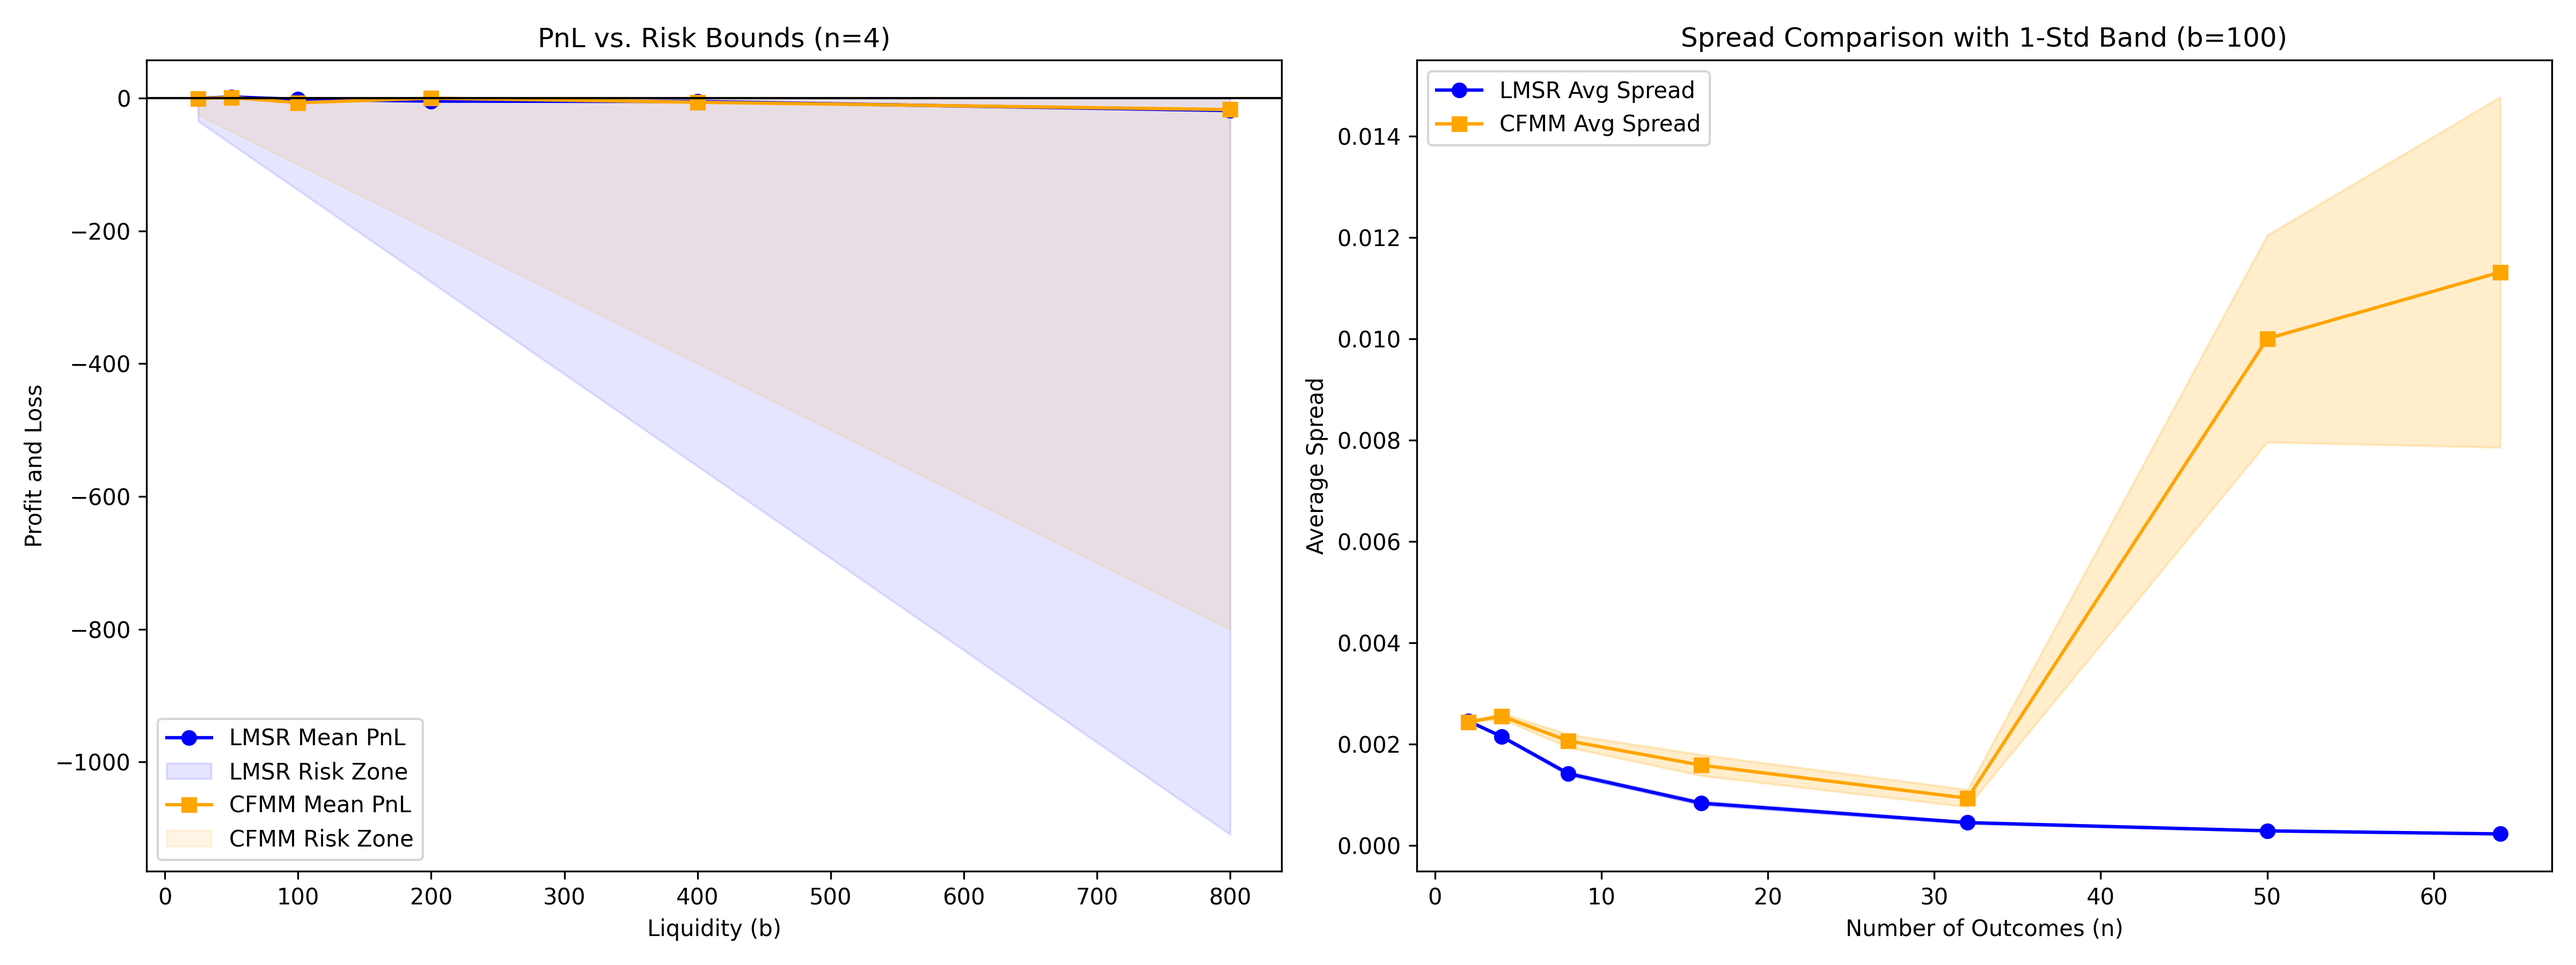
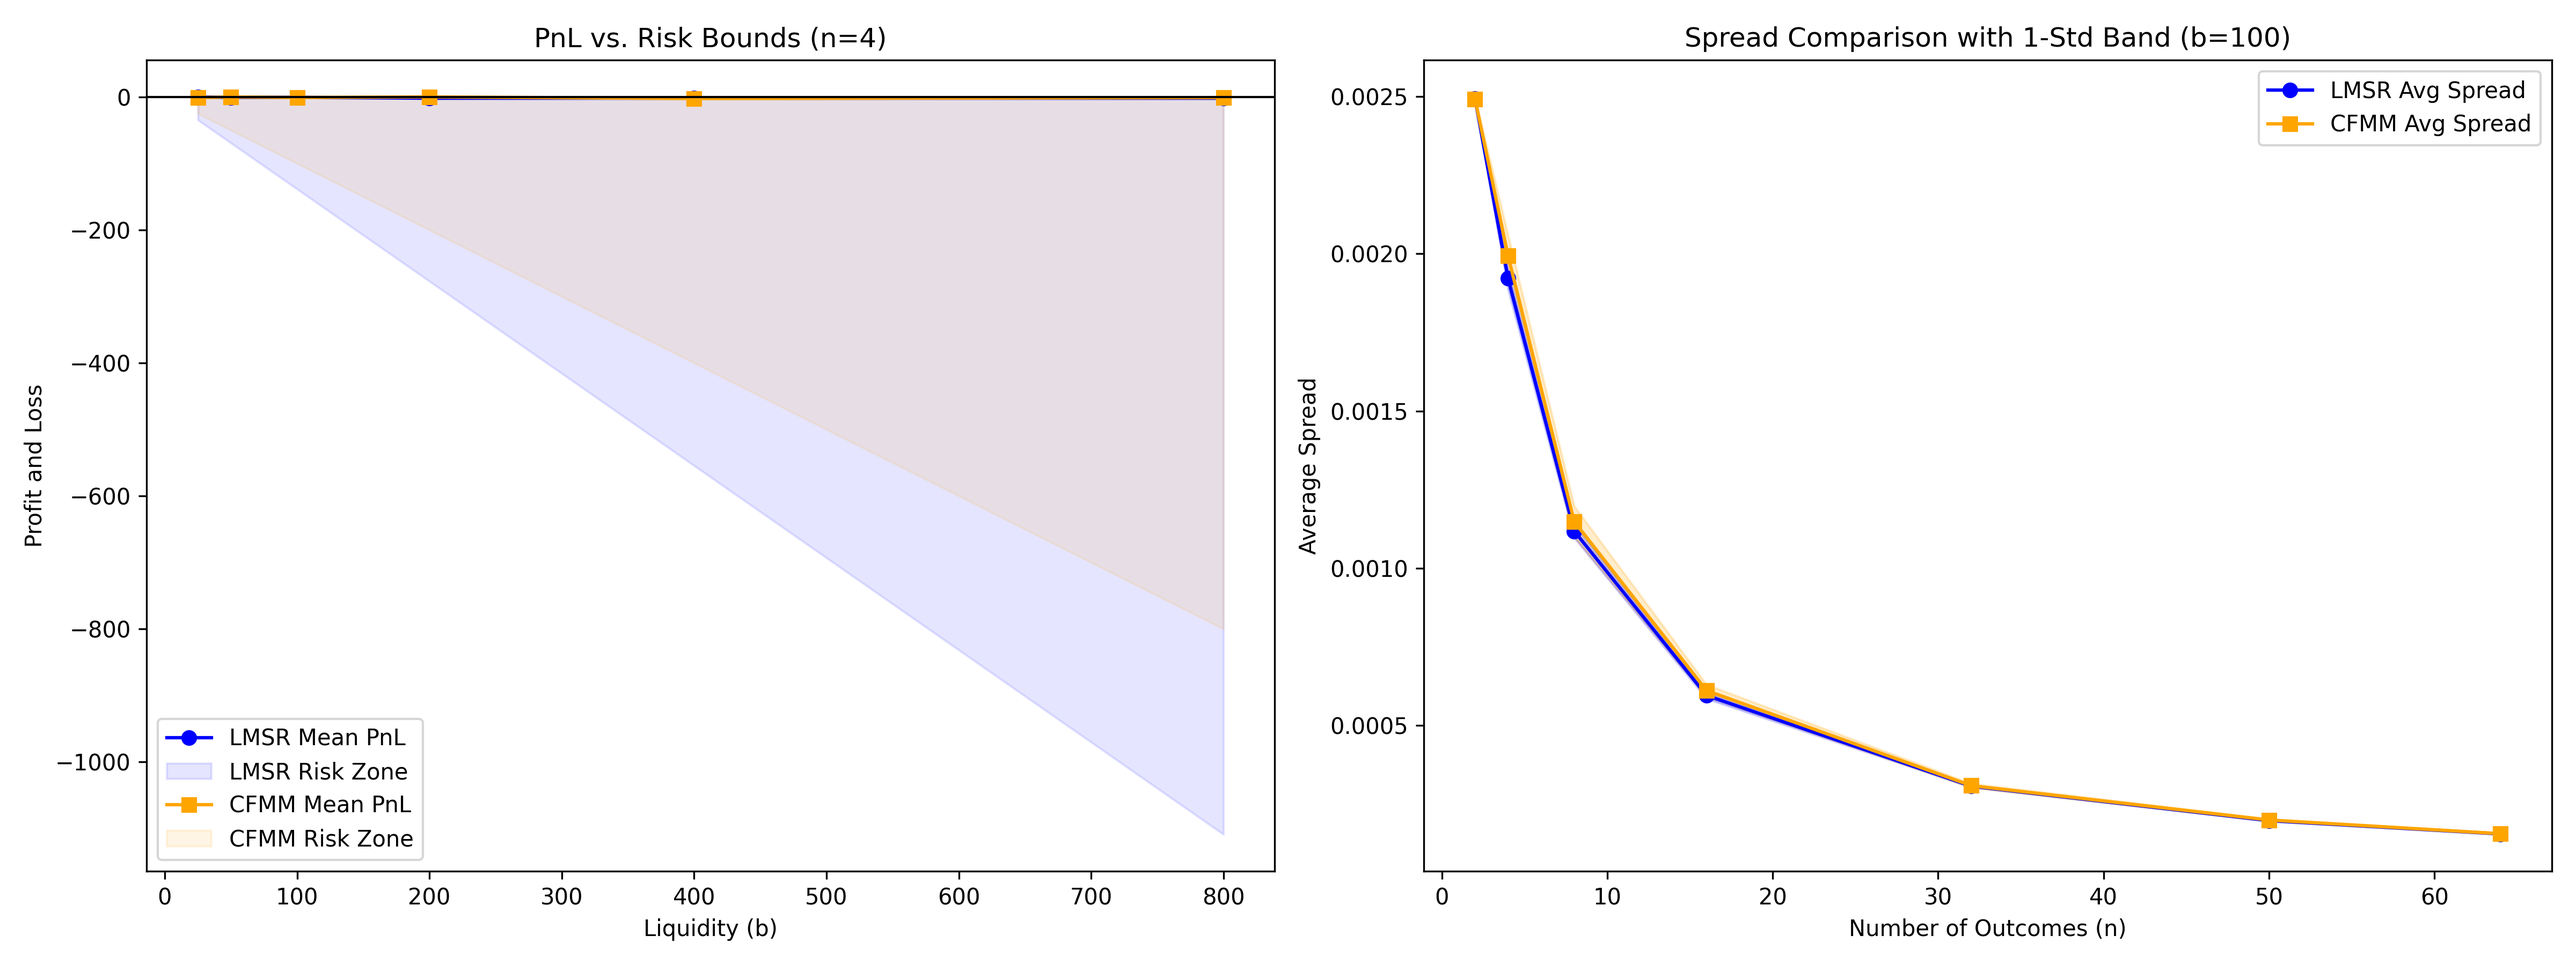
Less Informed Traders

diff --git a/MarketSim/agents.py b/MarketSim/agents.py
@@ -1,9 +1,9 @@
 import numpy as np
 
 class InformedAgent:
-    def __init__(self, true_p, confidence=0.05, threshold=0.02):
+    def __init__(self, true_p, confidence=0.5, threshold=0.02):
         self.true_p = true_p
-        self.confidence = confidence 
+        self.confidence = confidence #std 
         self.threshold = threshold
 
     def get_trade(self, current_prices, n):
